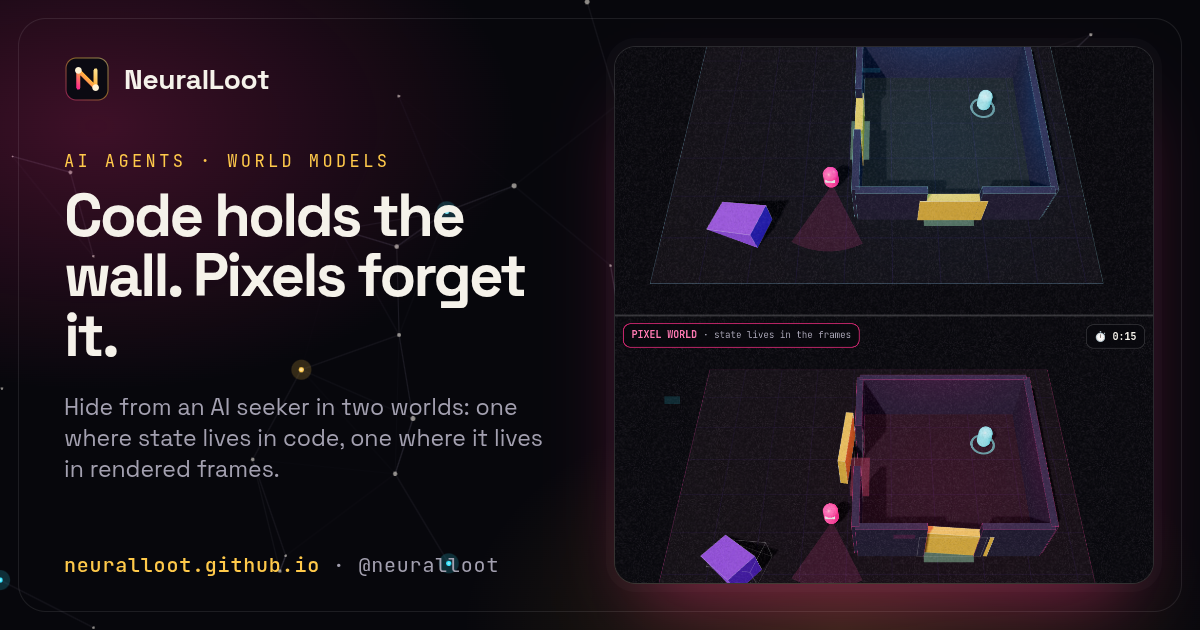
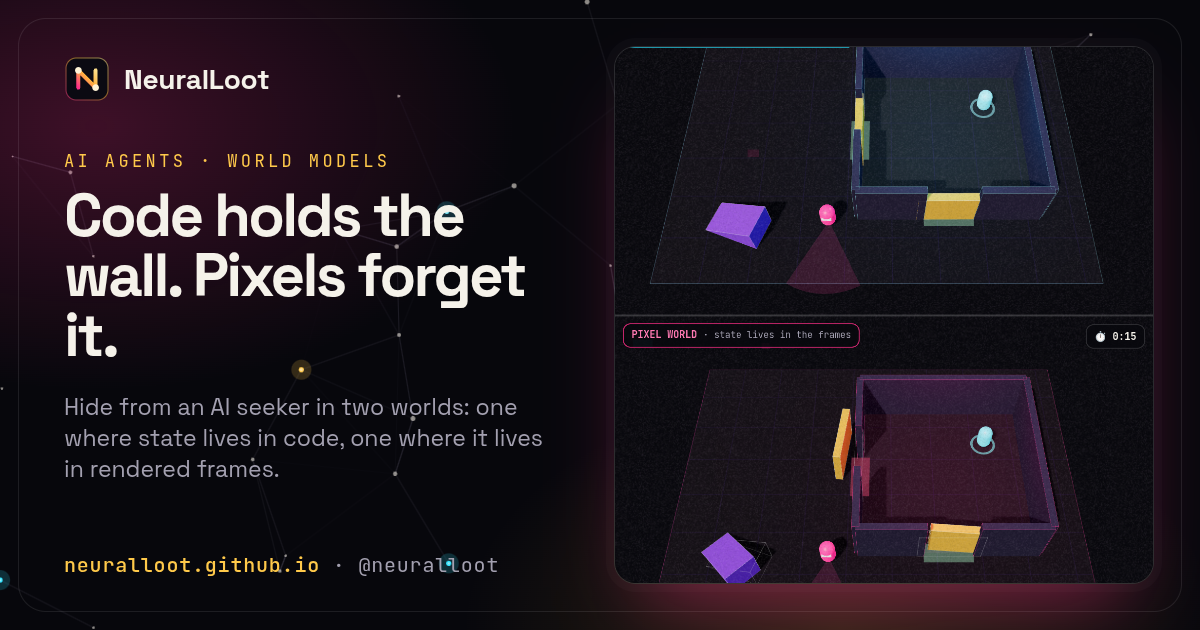
where-the-wall-lives: thumb label clears the LATEST badge

diff --git a/demos/2026-10-09-where-the-wall-lives/index.html b/demos/2026-10-09-where-the-wall-lives/index.html
@@ -165,6 +165,7 @@ footer a:hover{color:var(--ink)}
 @media (max-width:600px){.banner .ls{display:none!important}.banner{bottom:58px}}
 .capture .vp .lab1,.capture .vp .stat{zoom:1.6}
 .capture .banner{zoom:1.4;bottom:54px}
+.thumbshot #lab0{top:46px}
 </style>
 </head>
 <body>
@@ -965,6 +966,7 @@ if (Q.has("capture")) window.__wl = {
   proj(i, x, z) { const r = stage.getBoundingClientRect(), R = rects[i], v = new THREE.Vector3(x, 0, z).project(cams[i]);
     return { x: r.left + R.x + (v.x + 1) / 2 * R.w, y: r.top + R.y + (1 - v.y) / 2 * R.h }; },
 };
+if (Q.has("thumb")) document.body.classList.add("thumbshot");
 if (Q.has("auto")) setTimeout(release, Math.max(0, +Q.get("auto")) * 1000);
 </script>
 </body>
